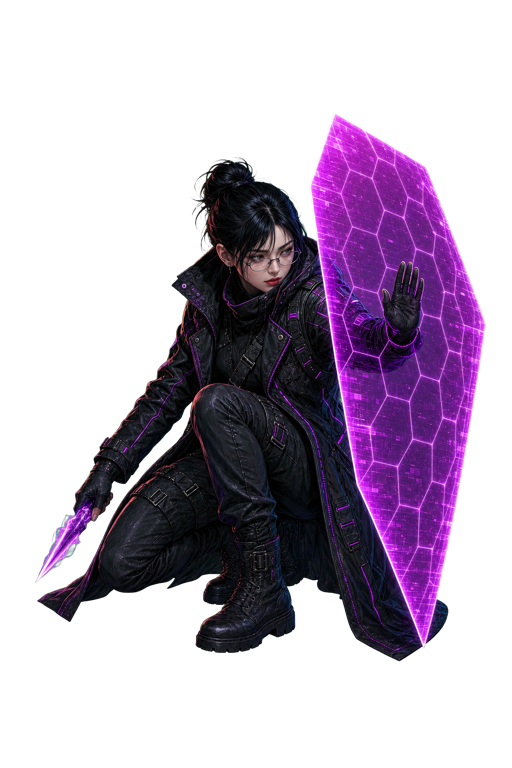
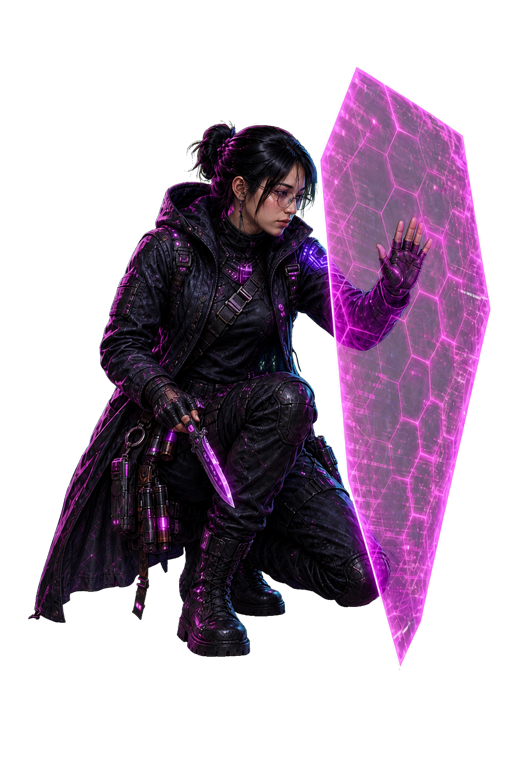
feat(art): regenerate Su-ah cover knife pose

diff --git a/docs/NEXT_PLAN.md b/docs/NEXT_PLAN.md
@@ -12,7 +12,7 @@ Authority QA: `docs/test/neo_seoul_live_qa.md`. **Latest deploy = `mythos-api-00
 
 ### Live playtest triage 2026-07-11 (owner session on 00042-97c) — diagnosed, fixes need owner scope pick
 - `[x]` **07-11 트리아지 배치 전체 DONE** — 전투 A/V 싱크 A+B+C(`654bdd0`/`6571351`) · drone_scrap few-shot 중립화 · 미등장 아군 HOLD("이름+대사 필수" 규칙 포함) · 프로덕션 이미지 실패 재시도 + Imagen 쿼터 1→30/min(`40ccaea`) · 용어 직관화 용어집 11종/naming 가드(`ece8e08`) · EN 오프닝 카드 패리티(`8a9362a`) — 상세 `bin/docs/archive/progress-2026-07.md`. 잔여 `[ ]` `[manual]` 항목별 라이브 체감은 `docs/test/neo_seoul_live_qa.md`가 권위 (구 `imagen-3.0` 쿼터 증액 신청은 lever#3 모델 이관으로 폐기 — Gemini 429 관찰로 대체).
-- **전투 갈아엎기**: 리서치 → `docs/plans/2026-07-11-combat-redesign-research.md` (A안 권고). **P0 DONE (`139587b`)**: 완전 텔레그래프(⚔+주사위 피해+공격선) · 아레나 전부 10×7 · 지형 스프라이트 레이어(에셋 없으면 기존 룩 폴백). 남음: `[ ]` `[manual]` P0 실플레이 재체감 on 00045 (텔레그래프 "안 바뀜" = stale-radar 버그였음 → `055fa9d` 수정+배포; 그리드 페이스·텔레그래프 가독) · `[x]` `[auto:agy]` **지형 타일 아트 3종 DONE (`37afcd2`) — `resources/neo-seoul/combat/tiles/{floor,cover_half,cover_full}.png` (FLUX 아이소 타일; FLUX는 불투명 RGB라 canvas 계약의 투명 모서리 위배 → floor=기하 다이아몬드 알파 마스크, cover=근흑 루미넌스 키로 후처리) · **P1 밀기/당기기 DONE** (`5d75d63` `_skill_displace` 지형 상호작용 — overload_strike push:1 + `magnetic_pull` 당기기 스킬; **명중확률 유지**=오너 지시, 무확률 제거는 안 함) + **엄폐 배지 DONE** (`508ad72` 🛡+3/+6). `[x]` **엄폐 포즈 배선 DONE (claude 인계)** — 엄폐 칸 위 유닛은 웅크림 포즈 렌더: pose `"cover"` + `<char>-cover.png` 파생 규약(guard/idle 경로에서 유도), 스프라이트 로드 실패 시 guard 포즈 폴백; +3 소스락 tests. `[x]` `[auto:codex]` 크라우치 스프라이트 1차 생성(`4d5b3be`) → **오너 리젝** (동일 템플릿 + 정체성 뒤섞임). `[/]` `[auto:codex]` **엄폐 포즈 아트 정체성 재생성 — 5/7 확정, 2장 재생성 (오너 규칙 07-12)** — 브리프 `scratch/codex-cover-pose-brief.md` 준수, 자기 guard/idle 레퍼런스 생성, 부분 승격 2회차: se-rin/kai (`df8d1e6`, 러너 image-judge PASS + AGY live-QA PASS_CANDIDATE) → 잔여 5장은 codex 커밋(`33b5a4a`)이 critic-reject(이 항목을 [manual] 후속 없이 DONE으로 닫음)로 revert된 뒤 아트만 복원 + claude 시각 정체성 재판정으로 재적용(`2942a74`; 린위에=여성 인간·태오=남성·7장 포즈 상이). **오너 비교시트 리뷰에서 신규 규칙 확정: cover 소품/무기는 그 캐릭터의 guard 정본에 있는 것만** → `[x]` `[auto:codex]` 3차: player-noise(총기 제거) **오너 승인**·su-ah(나이프 교체) 무기 PASS지만 **스타일 회귀로 오너 리젝**(`cac23f9`; attempt-1의 회로 자수 질감/디테일 밀도 소실). `[ ]` `[auto:codex]` **su-ah 1장 4차 재재생성** — 오너 판정 "attempt-1 이미지가 좋았고 무기만 바꾸면 됐다" → attempt-1을 1순위 레퍼런스로 구도·질감·조명 그대로, **데이터패드 손만 guard 나이프로 교체** (브리프 4차 개정). criterion: 스타일-동일성 셀프체크 추가 + `make check` green. 체크표 `outputs/cover-pose-regen/review.md`, 후보/소스 동 디렉토리 보존. `[ ]` `[manual]` **오너 정체성 최종 확인** — 비교 시트 `outputs/cover-pose-regen/comparison-sheet.png` (신규 cover vs 정본 idle/guard ×7, 2장 재생성 후 재생성분 반영해 갱신)로 승인 또는 장별 재생성 지시; 승인 전 deploy 금지 해제 불가. · `[x]` `[auto:codex]` `magnetic_pull` 전용 아이콘 재생성 DONE (기존 `emp_pulse` 복사 플레이스홀더 교체; `make check` green).
+- **전투 갈아엎기**: 리서치 → `docs/plans/2026-07-11-combat-redesign-research.md` (A안 권고). **P0 DONE (`139587b`)**: 완전 텔레그래프(⚔+주사위 피해+공격선) · 아레나 전부 10×7 · 지형 스프라이트 레이어(에셋 없으면 기존 룩 폴백). 남음: `[ ]` `[manual]` P0 실플레이 재체감 on 00045 (텔레그래프 "안 바뀜" = stale-radar 버그였음 → `055fa9d` 수정+배포; 그리드 페이스·텔레그래프 가독) · `[x]` `[auto:agy]` **지형 타일 아트 3종 DONE (`37afcd2`) — `resources/neo-seoul/combat/tiles/{floor,cover_half,cover_full}.png` (FLUX 아이소 타일; FLUX는 불투명 RGB라 canvas 계약의 투명 모서리 위배 → floor=기하 다이아몬드 알파 마스크, cover=근흑 루미넌스 키로 후처리) · **P1 밀기/당기기 DONE** (`5d75d63` `_skill_displace` 지형 상호작용 — overload_strike push:1 + `magnetic_pull` 당기기 스킬; **명중확률 유지**=오너 지시, 무확률 제거는 안 함) + **엄폐 배지 DONE** (`508ad72` 🛡+3/+6). `[x]` **엄폐 포즈 배선 DONE (claude 인계)** — 엄폐 칸 위 유닛은 웅크림 포즈 렌더: pose `"cover"` + `<char>-cover.png` 파생 규약(guard/idle 경로에서 유도), 스프라이트 로드 실패 시 guard 포즈 폴백; +3 소스락 tests. `[x]` `[auto:codex]` 크라우치 스프라이트 1차 생성(`4d5b3be`) → **오너 리젝** (동일 템플릿 + 정체성 뒤섞임). `[/]` `[auto:codex]` **엄폐 포즈 아트 정체성 재생성 — 5/7 확정, 2장 재생성 (오너 규칙 07-12)** — 브리프 `scratch/codex-cover-pose-brief.md` 준수, 자기 guard/idle 레퍼런스 생성, 부분 승격 2회차: se-rin/kai (`df8d1e6`, 러너 image-judge PASS + AGY live-QA PASS_CANDIDATE) → 잔여 5장은 codex 커밋(`33b5a4a`)이 critic-reject(이 항목을 [manual] 후속 없이 DONE으로 닫음)로 revert된 뒤 아트만 복원 + claude 시각 정체성 재판정으로 재적용(`2942a74`; 린위에=여성 인간·태오=남성·7장 포즈 상이). **오너 비교시트 리뷰에서 신규 규칙 확정: cover 소품/무기는 그 캐릭터의 guard 정본에 있는 것만** → `[x]` `[auto:codex]` 3차: player-noise(총기 제거) **오너 승인**·su-ah(나이프 교체) 무기 PASS지만 **스타일 회귀로 오너 리젝**(`cac23f9`; attempt-1의 회로 자수 질감/디테일 밀도 소실). `[x]` `[auto:codex]` **su-ah 1장 4차 재재생성 DONE (2026-07-12)** — 오너 판정 "attempt-1 이미지가 좋았고 무기만 바꾸면 됐다" → attempt-1을 1순위 레퍼런스로 구도·질감·조명 그대로, **데이터패드 손만 guard 나이프로 교체** (브리프 4차 개정). criterion: 스타일-동일성 셀프체크 추가 + `make check` green. 체크표 `outputs/cover-pose-regen/review.md`, 후보/소스 동 디렉토리 보존. `[ ]` `[manual]` **오너 정체성 최종 확인** — 비교 시트 `outputs/cover-pose-regen/comparison-sheet.png` (신규 cover vs 정본 idle/guard ×7, 2장 재생성 후 재생성분 반영해 갱신)로 승인 또는 장별 재생성 지시; 승인 전 deploy 금지 해제 불가. · `[x]` `[auto:codex]` `magnetic_pull` 전용 아이콘 재생성 DONE (기존 `emp_pulse` 복사 플레이스홀더 교체; `make check` green).
 
 ### Narrative clarity audit follow-ups (2026-07-10, 4-lane audit)
 - `[ ]` `[manual]` **Track 4 balance playtest** — play-style consequence system now ON (`advance_route` axis tally → intent flag @ threshold 2); play two loops in different styles, confirm story/results diverge + balance OK, tune threshold/mapping if needed. **B4 stat-tag** decision rides along (`(민첩)` reads as a check but has 0 effect — make real or restyle).

diff --git a/docs/PROGRESS_LOG.md b/docs/PROGRESS_LOG.md
@@ -2,6 +2,13 @@
 
 Last updated: 2026-07-12
 
+## 2026-07-12 — overnight Codex: Su-ah cover pose regenerated from the approved style anchor
+- Status: Done; still undeployed and awaiting the existing human cover-art identity sign-off.
+- Changed: replaced `su-ah-cover.png` with a 512×768 RGBA cover sprite that retains attempt-1's crouch, magenta hex shield, circuit-embroidery coat, utility belt, and lighting, replacing only the datapad with the guard-matching low purple knife.
+- Verified: inspected the candidate against Su-ah idle/guard and the attempt-1 anchor; alpha conversion reports transparent corners. `make check` green (993 tests; content, lint, types, and Vite build passed).
+- Blockers: the visual comparison sheet needs its Su-ah cover cell refreshed before the manual owner approval; deployment remains blocked on that approval.
+- Next: refresh `outputs/cover-pose-regen/comparison-sheet.png`, then obtain the manual approval before any owner-only push/deploy.
+
 ## 2026-07-12 — overnight Codex: final two cover-pose sprites regenerated → 오너 리뷰: player-noise 승인, su-ah 스타일 리젝
 - Status: player-noise **오너 승인** 확정; su-ah는 무기(나이프)는 맞지만 attempt-1 대비 스타일 회귀(회로 자수 질감/디테일 밀도 소실)로 **오너 리젝** → 4차 재시드(attempt-1을 1순위 레퍼런스로 무기 든 손만 교체, 브리프 4차 개정). still undeployed.
 - Changed: regenerated and promoted `player-noise-cover.png` (short-haired masked, unarmed, green hex shield) and `su-ah-cover.png` (glasses/bun, purple shield, guard-matching knife); refreshed `outputs/cover-pose-regen/comparison-sheet.png` and the review table.
